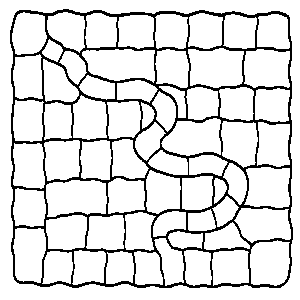
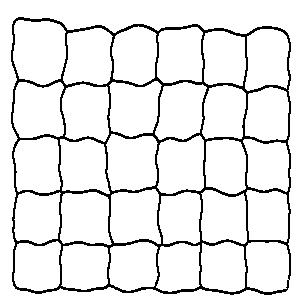
aggiornato livello 0 matrice, aggiornati gate

Changed region(s): [[0.03, 0.03, 0.99, 0.99], [0.9, 0.72, 0.99, 0.87]]

diff --git a/ModelloCompleto/hub_master.py b/ModelloCompleto/hub_master.py
@@ -125,13 +125,11 @@ def avvia_hub(image_path):
     for y in range(DIMENSIONE_FINALE):
         for x in range(DIMENSIONE_FINALE):
             if confini_ridimensionati[y, x] > 127:
-                matrice_3d[y, x, 0] = 2
                 matrice_3d[y, x, 1] = "CONFINE"
                 immagine_matrice_colorata[y, x] = [0, 0, 0]
             else:
                 id_territorio_corrente = territori_ridimensionati[y, x]
                 if id_territorio_corrente > 0:
-                    matrice_3d[y, x, 0] = 1
                     matrice_3d[y, x, 1] = label_per_id_territorio[id_territorio_corrente]
 
                     # Associo un identificativo ad ogni territorio F
@@ -142,83 +140,86 @@ def avvia_hub(image_path):
                     colore_scelto = COLORI_PER_LABEL[label_per_id_territorio[id_territorio_corrente]]
                     immagine_matrice_colorata[y, x] = colore_scelto
                 else:
-                    matrice_3d[y, x, 0] = 0
                     matrice_3d[y, x, 1] = "VUOTO"
                     immagine_matrice_colorata[y, x] = [255, 255, 255]
 
-    # --- SCALATURA E RICERCA START/GOAL ---
+    # ***** SCALATURA E RICERCA START/GOAL/GATE *****
     
-    # 1. Calcoliamo di quanto abbiamo ingrandito la mappa, quindi le scale che ci servono
+    # Calcoliamo di quanto abbiamo ingrandito la mappa, quindi le scale che ci servono
     altezza_originale, larghezza_originale = img_binaria.shape
     scala_x = DIMENSIONE_FINALE / larghezza_originale
     scala_y = DIMENSIONE_FINALE / altezza_originale
 
-    start_scalato = None
-    goal_scalato = None
-
-    # 2. Scorriamo i caratteri trovati, cerchiamo C e W
+    # Inizializziamo il livello 0 con una stringa vuota per tenerlo pulito
+    matrice_3d[:, :, 0] = ""
+    trovato_c = False    # variabile per verificare che trovo C
+    trovato_w = False   # variabile per verificare che trovo W
+    # Scorriamo i caratteri trovati, cerchiamo C e W
     for char in caratteri_riconosciuti:
-        cx_orig, cy_orig = char['centro']
-        
-        if char['label'] == 'C':
-            start_scalato = (int(cx_orig * scala_x), int(cy_orig * scala_y)) #trovata la C salvo le coordinate scalate del suo baricentro
-        elif char['label'] == 'W':
-            goal_scalato = (int(cx_orig * scala_x), int(cy_orig * scala_y)) #trovata la W salvo le coordinate scalate del suo baricentro
+        cx_orig, cy_orig = char['centro'] # salvo coordinate baricentro carattere
+        cx_scal = int(cx_orig * scala_x) # scalo coordinata x baricentro carattere
+        cy_scal = int(cy_orig * scala_y) # scalo coordinata y baricentro carattere
 
-    if not start_scalato or not goal_scalato:
+        if matrice_3d[cy_scal, cx_scal, 1] != "CONFINE": # controllo per verificare che con la scalatura qualcosa sia finito sul confine (altamente improbabile, ma non impossibile)
+            if char['label'] == 'C': 
+                matrice_3d[cy_scal, cx_scal, 0] = 'C' # trovata la C salvo il carattere nelle coordinate del suo baricentro su livello 0 matrice_3d
+                trovato_c = True
+                cv2.circle(immagine_matrice_colorata, (cx_scal, cy_scal), 3, (0, 255, 0), -1) # metto un punto verde sulla mappa colorata sulla posizione di C
+
+            elif char['label'] == 'W':
+                matrice_3d[cy_scal, cx_scal, 0] = 'W' # trovata la W salvo il carattere nelle coordinate del suo baricentro su livello 0 matrice_3d
+                trovato_w = True
+                cv2.circle(immagine_matrice_colorata, (cx_scal, cy_scal), 3, (255, 0, 0), -1) # metto un punto rosso sulla mappa colorata sulla posizione di W
+
+            elif char['label'] == 'F': # per ogni F trovata, salvo "GATE" nelle coordinate del suo baricentro su livello 0 matrice_3d
+                matrice_3d[cy_scal, cx_scal, 0] = "GATE"
+                 
+    if not trovato_c or not trovato_w:
         print("ATTENZIONE: Commence (C) o Win (W) non trovati!")
     
-    if start_scalato: #metto un punto verde sulla mappa colorata sulla posizione di C
-        # cv2.circle(immagine, (x, y), raggio, colore_rgb, spessore)
-        # Lo spessore -1 riempie completamente il cerchio
-        cv2.circle(immagine_matrice_colorata, start_scalato, 3, (0, 255, 0), -1) 
-
-    if goal_scalato: #metto un punto rosso sulla mappa colorata sulla posizione di W
-        cv2.circle(immagine_matrice_colorata, goal_scalato, 3, (255, 0, 0), -1)
-
     cv2.imwrite("step3_matrice_colorata.png", cv2.cvtColor(immagine_matrice_colorata, cv2.COLOR_RGB2BGR))
     print("- Salvato 'step3_matrice_colorata.png'")
     print("--- ELABORAZIONE COMPLETATA ---")
 
-    return img_color, immagine_matrice_colorata, matrice_3d, start_scalato, goal_scalato
+    return img_color, immagine_matrice_colorata, matrice_3d, trovato_w, trovato_c
 
 def disegna_percorso(immagine, matrice_3d, percorso, colore): # Funzione disegna percorso algoritmo
     px, py = percorso[0]
     immagine[py, px] = colore   # Coloro punto di partenza
 
     for i in range(1,len(percorso)):
-         x, y = percorso[i]
-         dist_x = abs(x-px) # Distanza tra coordinata x attuale e precedente
-         dist_y = abs(y-py) # Distanza tra coordinata y attuale e precedente
-         dist_tot = dist_x + dist_y # Distanza totale
-         valore_partenza = str(matrice_3d[py, px, 1])
-         valore_arrivo = str(matrice_3d[y, x, 1])
+        x, y = percorso[i]
+        dist_x = abs(x-px) # Distanza tra coordinata x attuale e precedente
+        dist_y = abs(y-py) # Distanza tra coordinata y attuale e precedente
+        dist_tot = dist_x + dist_y # Distanza totale
+        valore_partenza = str(matrice_3d[py, px, 1])
+        valore_arrivo = str(matrice_3d[y, x, 1])
 
-         if dist_tot == 1:  # Opzione 1: passo tra due caselle 
-             immagine[y, x] = colore
+        if dist_tot == 1:  # Opzione 1: passo tra due caselle 
+            immagine[y, x] = colore
 
-         elif valore_partenza.startswith("F") and valore_arrivo.startswith("F"):  # Opzione 2: salto tra due aeroporti (volo)
-             cv2.circle(immagine, (px, py), 3, colore, 1)
-             cv2.line(immagine, (x, y), (px, py), colore, 1)
-             cv2.circle(immagine, (x, y), 3, colore, 1)
+        elif valore_partenza.startswith("F") and valore_arrivo.startswith("F"):  # Opzione 2: salto tra due aeroporti (volo)
+            cv2.circle(immagine, (px, py), 3, colore, 1)
+            cv2.line(immagine, (x, y), (px, py), colore, 1)
+            cv2.circle(immagine, (x, y), 3, colore, 1)
 
-         elif (dist_x == 0 or dist_y == 0): # Opzione 3: scivolo su ghiaccio (linea dritta lunga)
-             cv2.line(immagine, (x, y), (px, py), colore, 1)
+        elif (dist_x == 0 or dist_y == 0): # Opzione 3: scivolo su ghiaccio (linea dritta lunga)
+            cv2.line(immagine, (x, y), (px, py), colore, 1)
 
-         px = x # salvo pixel attuali che diventeranno i precedenti sul giro di ciclo seguente
-         py = y
+        px = x # salvo pixel attuali che diventeranno i precedenti sul giro di ciclo seguente
+        py = y
 
 if __name__ == "__main__":
-    nome_foto = "mappe/mappa15.jpg"  # Controlla sempre che il nome combaci!
+    nome_foto = "mappe/mappa_20.jpg"  # Controlla sempre che il nome combaci!
 
-    img_originale, immagine_matrice_colorata, mat_3d, start, goal = avvia_hub(nome_foto)
+    img_originale, immagine_matrice_colorata, mat_3d, c, w = avvia_hub(nome_foto) #c e w bool per verificare che ho trovato c e w
     
     # ATTIVAZIONE PATHFINDING E RAPPRESENTAZIONE PERCORSO SU MAPPA
     mappa_ucs= immagine_matrice_colorata.copy()
     mappa_astar= immagine_matrice_colorata.copy()
     mappa_greedy= immagine_matrice_colorata.copy()
 
-    if start and goal:
+    if c and w:
      
         print("Colori percorsi:")
         print("A* Manhattan = rosso")
@@ -227,37 +228,38 @@ if __name__ == "__main__":
         print("Greedy Manhattan = blu")
         print("Greedy Euclideo = viola/magenta")
         # Passiamo la matrice e i punti scalati al file separato
-        percorso_ucs, percorso_astar_manhattan, percorso_astar_euclideo, percorso_astar_op, percorso_greedy_manhattan, percorso_greedy_euclideo, percorso_greedy_op = pathfinding.esegui_confronto(mat_3d, start, goal)
+        percorso_ucs, percorso_astar_manhattan, percorso_astar_euclideo, percorso_astar_op, percorso_greedy_manhattan, percorso_greedy_euclideo, percorso_greedy_op = pathfinding.esegui_confronto(mat_3d)
 
         
         # DISEGNARE IL PERCORSO SULLA MAPPA
-        # Se A* Manhattan ha trovato un percorso, coloriamo i pixel del percorso di grigio sulla mappa finale
+
+        # Se UCS ha trovato un percorso, coloriamo i pixel del percorso di blu sulla mappa finale
+        if percorso_ucs:
+            disegna_percorso(mappa_ucs, mat_3d, percorso_ucs, [0, 0, 255])
+
+        # Se A* Manhattan ha trovato un percorso, coloriamo i pixel del percorso di rosso sulla mappa finale
         if percorso_astar_manhattan:
             disegna_percorso(mappa_astar, mat_3d, percorso_astar_manhattan, [255, 0, 0])
 
-        # Se A* Euclideo ha trovato un percorso, coloriamo i pixel del percorso di rosa sulla mappa finale        
+        # Se A* Euclideo ha trovato un percorso, coloriamo i pixel del percorso di verde sulla mappa finale        
         if percorso_astar_euclideo:
-            disegna_percorso(mappa_astar, mat_3d, percorso_astar_euclideo, [255, 30, 115] )
+            disegna_percorso(mappa_astar, mat_3d, percorso_astar_euclideo, [0, 255, 0] )
         
-        # Se A* OP ha trovato un percorso, coloriamo i pixel del percorso di rosa sulla mappa finale        
+        # Se A* OP ha trovato un percorso, coloriamo i pixel del percorso di blu sulla mappa finale        
         if percorso_astar_op:
-            disegna_percorso(mappa_astar, mat_3d, percorso_astar_op, [0, 255, 30] )
-        
-        # Se UCS ha trovato un percorso, coloriamo i pixel del percorso di verde sulla mappa finale
-        if percorso_ucs:
-            disegna_percorso(mappa_ucs, mat_3d, percorso_ucs, [0, 255, 0])
+            disegna_percorso(mappa_astar, mat_3d, percorso_astar_op, [0, 0, 255] )
 
-        # Se Greedy Manhattan ha trovato un percorso, coloriamo i pixel del percorso di blu sulla mappa finale
+        # Se Greedy Manhattan ha trovato un percorso, coloriamo i pixel del percorso di rosso sulla mappa finale
         if percorso_greedy_manhattan:
-            disegna_percorso(mappa_greedy, mat_3d, percorso_greedy_manhattan, [0, 0, 255])
+            disegna_percorso(mappa_greedy, mat_3d, percorso_greedy_manhattan, [255, 0, 0])
 
-        # Se Greedy Euclideo ha trovato un percorso, coloriamo i pixel del percorso di viola sulla mappa finale
+        # Se Greedy Euclideo ha trovato un percorso, coloriamo i pixel del percorso di verde sulla mappa finale
         if percorso_greedy_euclideo:
-            disegna_percorso(mappa_greedy, mat_3d, percorso_greedy_euclideo, [255, 0, 255])
+            disegna_percorso(mappa_greedy, mat_3d, percorso_greedy_euclideo, [0, 255, 0])
         
-        # Se Greedy OP ha trovato un percorso, coloriamo i pixel del percorso di rosa sulla mappa finale        
+        # Se Greedy OP ha trovato un percorso, coloriamo i pixel del percorso di blu sulla mappa finale        
         if percorso_greedy_op:
-            disegna_percorso(mappa_greedy, mat_3d, percorso_greedy_op, [0, 255, 30] )
+            disegna_percorso(mappa_greedy, mat_3d, percorso_greedy_op, [0, 0, 255] )
                 
     fig, assi = plt.subplots(2, 2, figsize=(16, 10))
     assi[0,0].imshow(cv2.cvtColor(img_originale, cv2.COLOR_BGR2RGB))

diff --git a/ModelloCompleto/pathfinding.py b/ModelloCompleto/pathfinding.py
@@ -4,11 +4,10 @@ from aima import Problem, uniform_cost_search, astar_search, greedy_best_first_g
 
 
 class MappaProblem(Problem):
-    def __init__(self, start, goal, matrice_3d, costo_confine, costo_base, fattore_ostile):
+    def __init__(self, matrice_3d, costo_confine, costo_base, fattore_ostile):
         """
         start e goal devono essere tuple (X, Y) già scalate.
         """
-        super().__init__(start, goal)
         self.matrice = matrice_3d
         self.max_y = matrice_3d.shape[0]
         self.max_x = matrice_3d.shape[1]
@@ -18,13 +17,22 @@ class MappaProblem(Problem):
         self.fattore_ostile = fattore_ostile
         self.costo_biglietto = costo_base * 3
 
-        self.aeroporti = {}    # Creo dizionario dove salvare per ogni territorio F il suo "Gate" (pixel del territorio dove si atterra in caso di volo da un altro aeroporto)
+        start = None
+        goal = None
+        self.aeroporti = {}    # Creo dizionario dove salvare per ogni territorio F il suo "Gate"
+
+        # Ciclo per mappare il mondo (trova start, goal, gate)
         for y in range(self.max_y):
             for x in range(self.max_x):
                 valore_casella = str(self.matrice[y, x, 1])  # Lo leggo come stringa per poter usare startswith
-                if valore_casella.startswith("F"):
-                    if valore_casella not in self.aeroporti:  # Se non ho ancora salvato un Gate per questo aeroporto  
-                        self.aeroporti[valore_casella] = (x, y) # Salvo questo pixel come suo Gate Ufficiale! (sarà il pixel più a Nord-Ovest di ogni territorio F)
+                trova_baricentri = self.matrice[y, x, 0]
+                if trova_baricentri == "C":
+                    start = (x, y)
+                elif trova_baricentri == "W":
+                    goal = (x, y) 
+                elif valore_casella.startswith("F") and trova_baricentri == "GATE":
+                    self.aeroporti[valore_casella] = (x, y) # Salvo questo pixel come suo gate ufficiale
+        super().__init__(start, goal)
 
 
     def actions(self, state):
@@ -38,8 +46,8 @@ class MappaProblem(Problem):
 
         # --- LOGICA VOLI AEROPORTO ---
         valore_corrente = str(self.matrice[y, x, 1])
-        
-        if valore_corrente.startswith("F"):
+        # Controllo se sono in un territorio F e se le mie coordinate (x,y) corrispondono a quelle del gate ufficiale di questo aeroporto.
+        if valore_corrente.startswith("F") and (x, y) == self.aeroporti.get(valore_corrente):
             # Scorro il dizionario dei Gate ufficiali (.items() tira fuori chiave e valore)
             for id_destinazione, (nx, ny) in self.aeroporti.items():
                 # Se il Gate di destinazione è di un aeroporto diverso da quello attuale
@@ -177,7 +185,7 @@ def esegui_ricerca(nome, algoritmo, problema, euristica=None):
     return percorso
 
 # --- FUNZIONE PRINCIPALE ---
-def esegui_confronto(matrice_3d, start_scalato, goal_scalato):
+def esegui_confronto(matrice_3d):
     print("\nInizializzazione Problema AIMA...")
 
 
@@ -220,9 +228,9 @@ def esegui_confronto(matrice_3d, start_scalato, goal_scalato):
         else:
             break
 
-    problema = MappaProblem(start_scalato, goal_scalato, matrice_3d, confine, base, ostile)
+    problema = MappaProblem(matrice_3d, confine, base, ostile)
 
-# *** ESECUZIONE ALGORITMI ***
+    # *** ESECUZIONE ALGORITMI ***
 
     # Uniform Cost Search (Senza euristica!)
     percorso_ucs = esegui_ricerca("Uniform Cost Search", uniform_cost_search, problema) 
